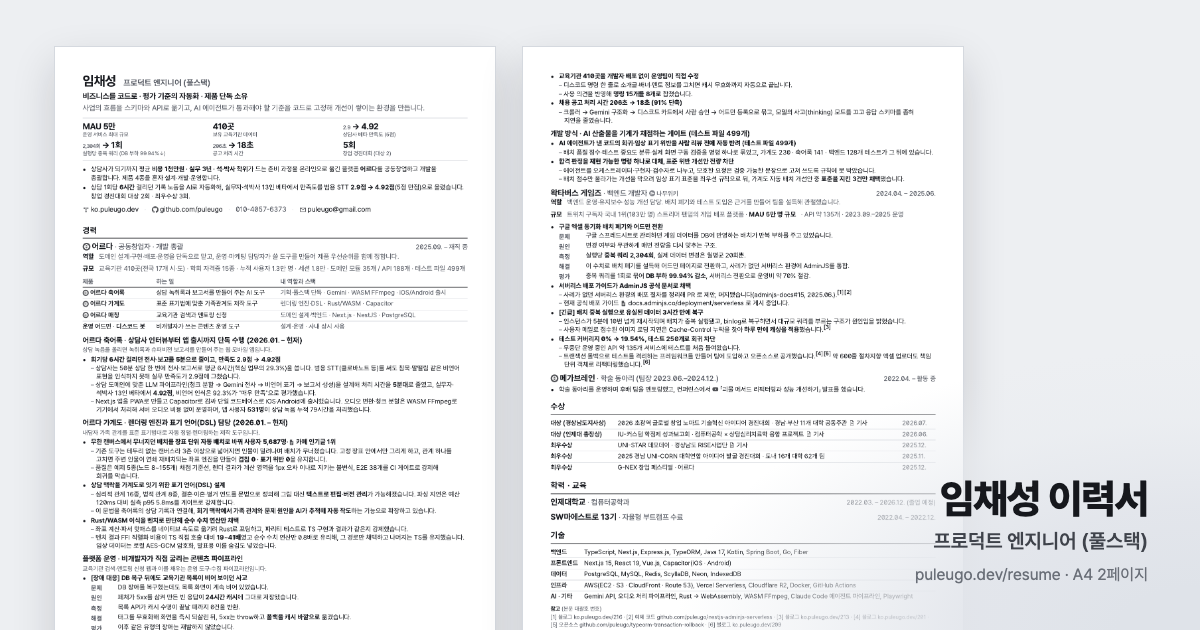
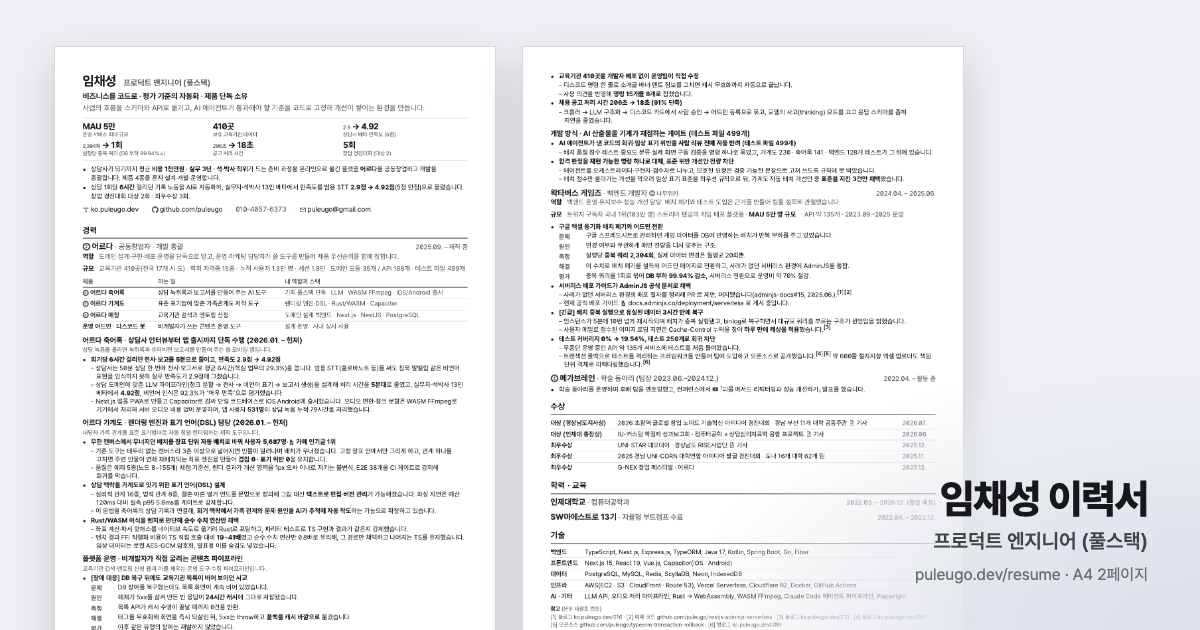
style: 특정 모델명(Gemini) 대신 LLM 으로 표기
Claude-Session: https://claude.ai/code/session_01W7x6f6aizACV8L1Ey8iNMM

diff --git a/resume/index.html b/resume/index.html
@@ -352,7 +352,7 @@
 	<table class="data-table">
 		<thead><tr><th>제품</th><th>하는 일</th><th class="sub">내 역할과 스택</th></tr></thead>
 		<tbody>
-			<tr><td><a href="https://verbatim.auruda-j.com" data-preview data-tip="사이트 미리보기 · 어르다 축어록 (verbatim.auruda-j.com)"><svg class="icon"><use href="#i-site-b"/></svg>어르다 축어록</a></td><td>상담 <t data-x="축어록">녹취록</t>과 보고서를 만들어 주는 AI 도구</td><td class="sub">기획·풀스택 단독 · Gemini · WASM FFmpeg · iOS/Android 출시</td></tr>
+			<tr><td><a href="https://verbatim.auruda-j.com" data-preview data-tip="사이트 미리보기 · 어르다 축어록 (verbatim.auruda-j.com)"><svg class="icon"><use href="#i-site-b"/></svg>어르다 축어록</a></td><td>상담 <t data-x="축어록">녹취록</t>과 보고서를 만들어 주는 AI 도구</td><td class="sub">기획·풀스택 단독 · LLM · WASM FFmpeg · iOS/Android 출시</td></tr>
 			<tr><td><a href="https://genogram.auruda-j.com" data-preview data-tip="사이트 미리보기 · 어르다 가계도 (genogram.auruda-j.com)"><svg class="icon"><use href="#i-site-b"/></svg>어르다 가계도</a></td><td>표준 표기법에 맞춘 <t data-x="가계도">가족관계도</t> 제작 도구</td><td class="sub">렌더링 엔진·DSL · Rust/WASM · Capacitor</td></tr>
 			<tr><td><a href="https://www.auruda-j.com" data-preview data-tip="사이트 미리보기 · 어르다 (www.auruda-j.com)"><svg class="icon"><use href="#i-site-b"/></svg>어르다 매칭</a></td><td><t data-x="수련기관">교육기관</t> 검색과 <t data-x="슈퍼비전">멘토링</t> 신청</td><td class="sub">도메인 설계·백엔드 · Next.js · NestJS · PostgreSQL</td></tr>
 			<tr><td>운영 어드민 · 디스코드 봇</td><td>비개발자가 쓰는 콘텐츠 운영 도구</td><td class="sub">설계·운영 · 사내 상시 사용</td></tr>
@@ -366,7 +366,7 @@
 			<li class="task"><b>회기당 <b>6시간</b> 걸리던 전사·보고를 <b>5분</b>으로 줄이고, 만족도 2.9점 → 4.92점</b>
 				<ul class="how">
 					<li>상담사는 50분 상담 한 번에 전사·보고서로 평균 6시간(핵심 업무의 29.3%)을 씁니다. 범용 STT(클로바노트 등)를 써도 침묵·말떨림 같은 비언어 표현을 인식하지 못해 실무 만족도가 2.9점에 그쳤습니다.</li>
-					<li>상담 도메인에 맞춘 LLM 파이프라인(청크 분할 → Gemini 전사 → 비언어 표기 → 보고서 생성)을 설계해 처리 시간을 <b>5분대</b>로 줄였고, 실무자·석박사 13인 베타에서 <b>4.92점</b>, 비언어 인식은 92.3%가 "매우 만족"으로 평가했습니다.</li>
+					<li>상담 도메인에 맞춘 LLM 파이프라인(청크 분할 → 전사 → 비언어 표기 → 보고서 생성)을 설계해 처리 시간을 <b>5분대</b>로 줄였고, 실무자·석박사 13인 베타에서 <b>4.92점</b>, 비언어 인식은 92.3%가 "매우 만족"으로 평가했습니다.</li>
 					<li>Next.js 앱을 PWA로 만들고 Capacitor로 감싸 단일 코드베이스로 iOS·Android에 출시했습니다. 오디오 변환·청크 분할은 WASM FFmpeg로 기기에서 처리해 서버 오디오 비용 없이 운영하며, 앱 사용자 <b>531명</b>이 상담 녹음 누적 79시간을 처리했습니다.</li>
 				</ul></li>
 			</ul>
@@ -413,7 +413,7 @@
 				</ul></li>
 			<li class="task"><b>채용 공고 처리 시간 206초 → <b>18초</b> (91% 단축)</b>
 				<ul class="how">
-					<li>크롤러 → Gemini 구조화 → 디스코드 카드에서 사람 승인 → 어드민 등록으로 묶고, 모델의 사고(thinking) 모드를 끄고 응답 스키마를 좁혀 지연을 줄였습니다.</li>
+					<li>크롤러 → LLM 구조화 → 디스코드 카드에서 사람 승인 → 어드민 등록으로 묶고, 모델의 사고(thinking) 모드를 끄고 응답 스키마를 좁혀 지연을 줄였습니다.</li>
 				</ul></li>
 						</ul>
 	</div>
@@ -511,7 +511,7 @@
 		<tr><td>프론트엔드</td><td>Next.js 15, React 19, Vue.js, Capacitor(iOS · Android)</td></tr>
 		<tr><td>데이터</td><td>PostgreSQL, MySQL, Redis, ScyllaDB, Neon, IndexedDB</td></tr>
 		<tr><td>인프라</td><td>AWS(EC2 · S3 · CloudFront · Route 53), Vercel Serverless, Cloudflare R2, Docker, GitHub Actions</td></tr>
-		<tr><td>AI · 기타</td><td>Gemini API, 오디오 처리 파이프라인, Rust → WebAssembly, WASM FFmpeg, Claude Code 에이전트 파이프라인, Playwright</td></tr>
+		<tr><td>AI · 기타</td><td>LLM API, 오디오 처리 파이프라인, Rust → WebAssembly, WASM FFmpeg, Claude Code 에이전트 파이프라인, Playwright</td></tr>
 	</tbody>
 </table>
 
